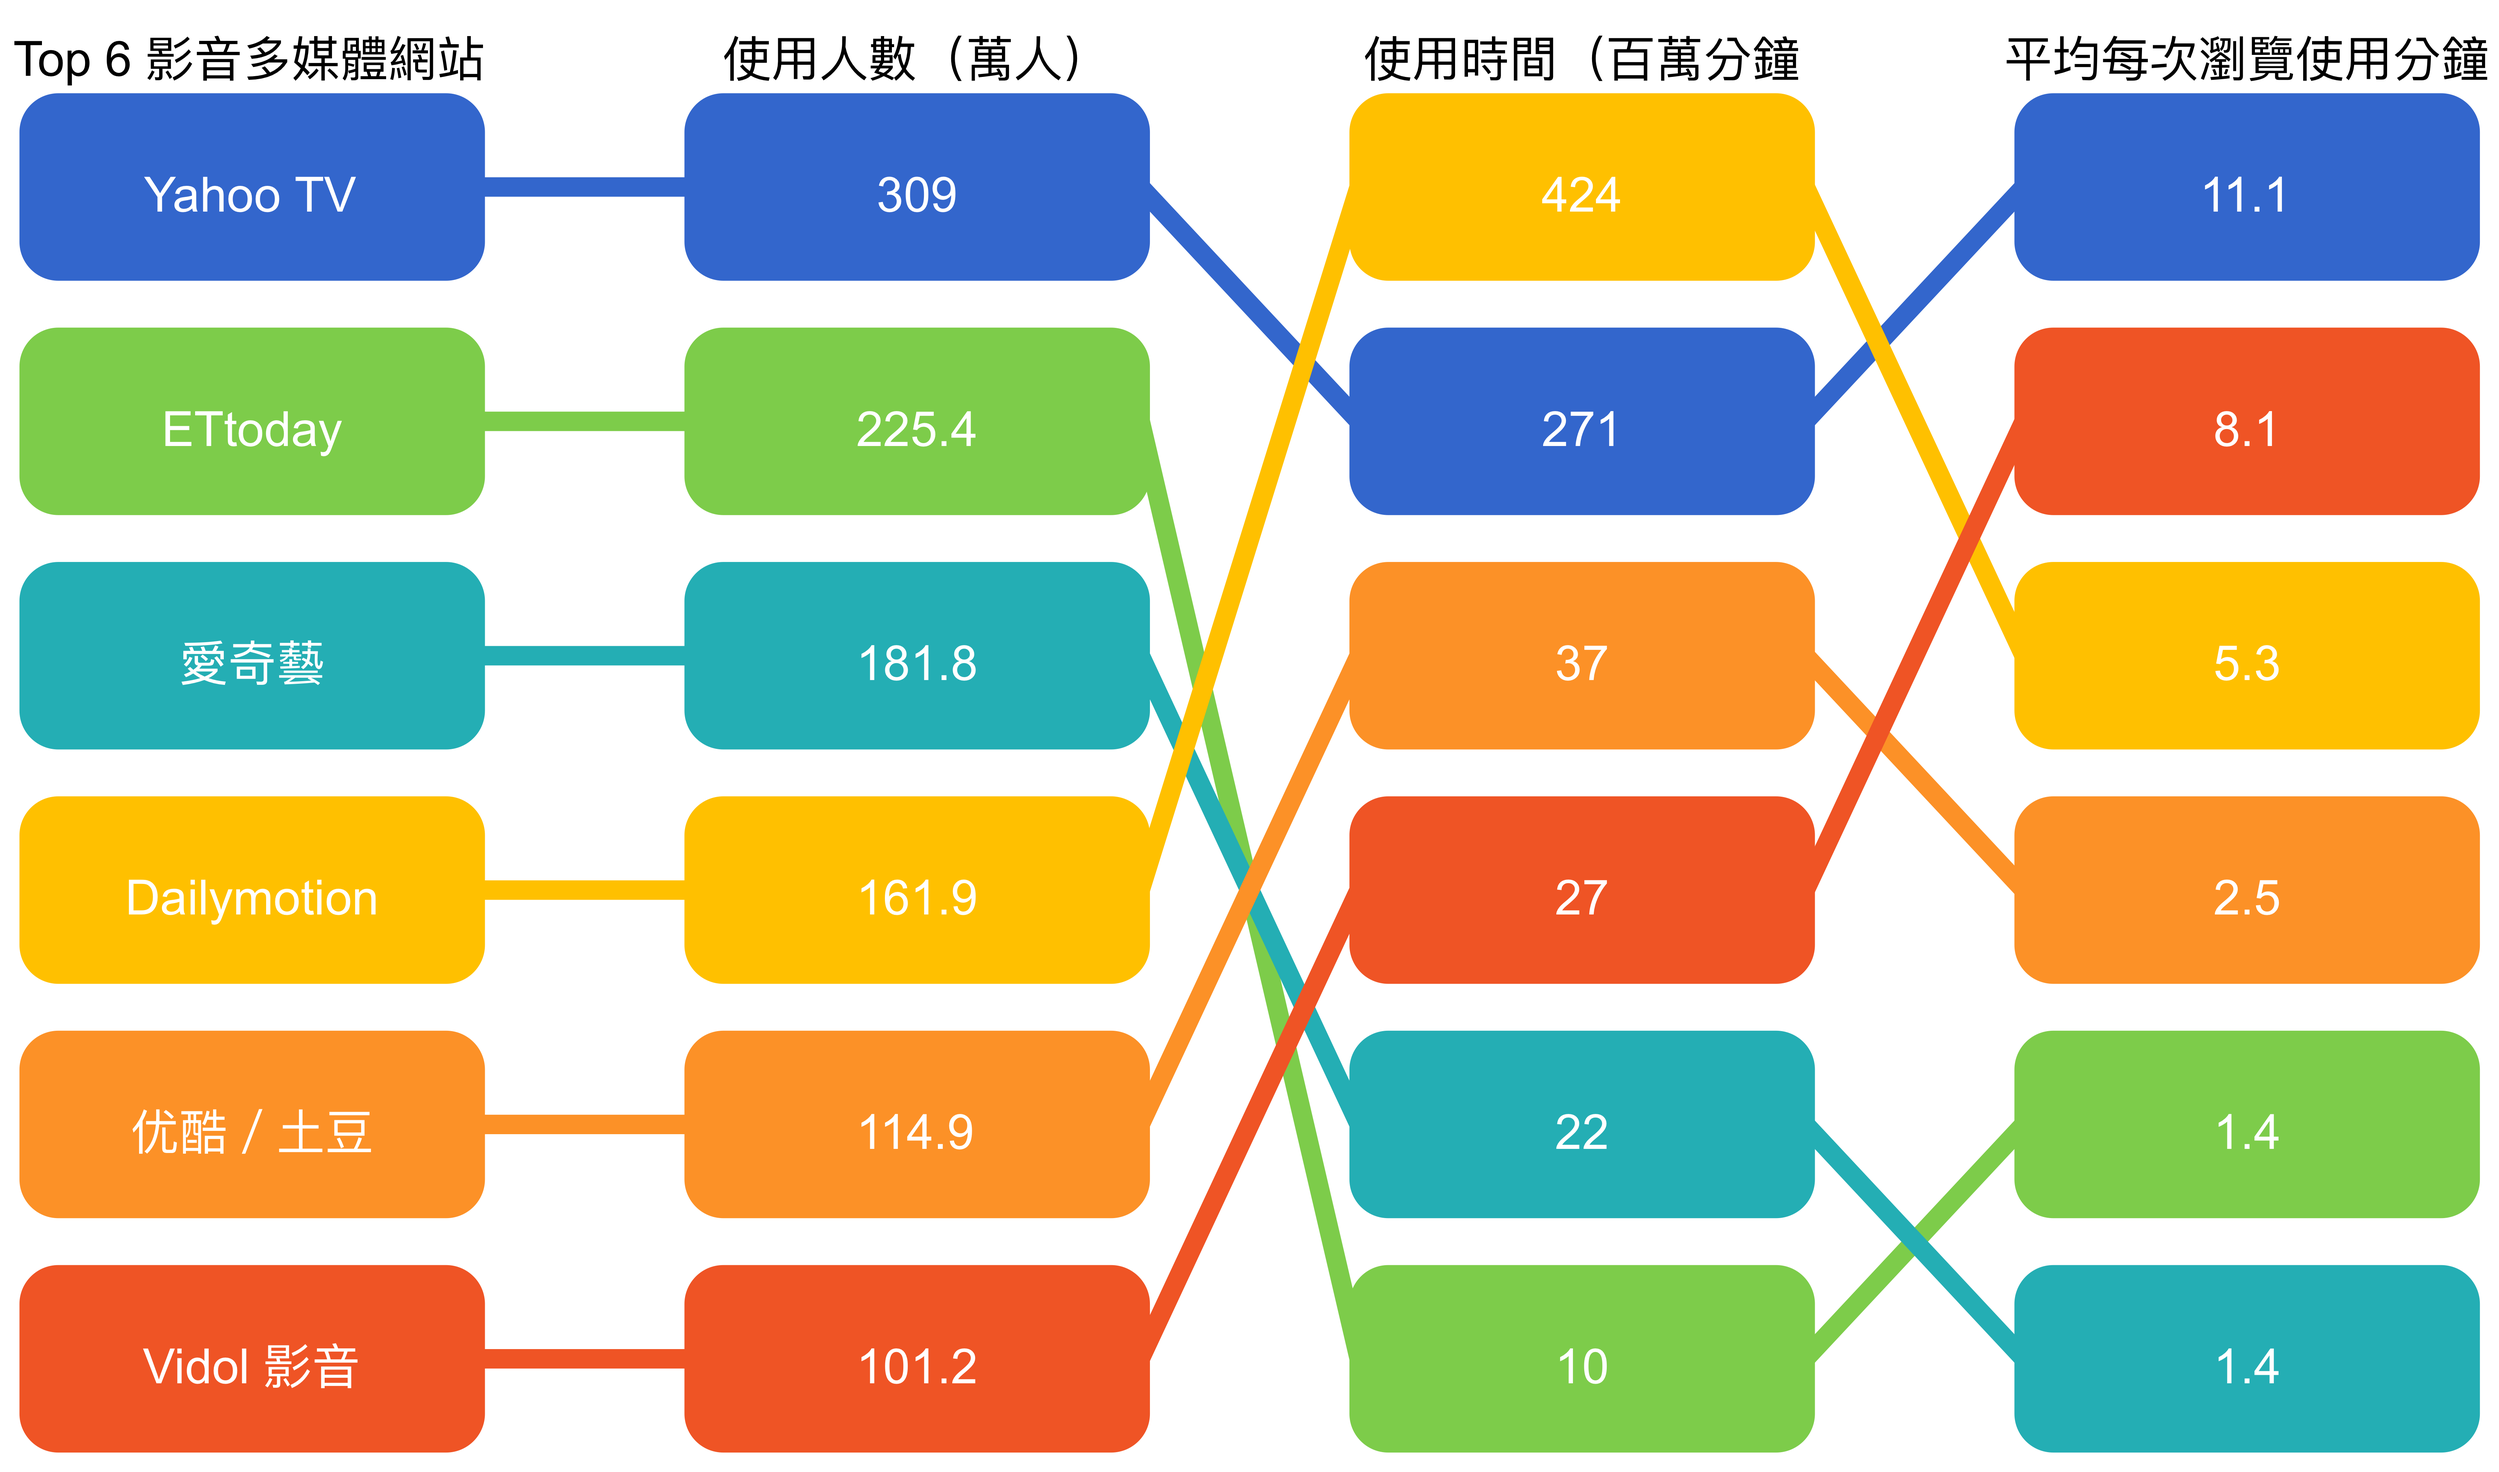
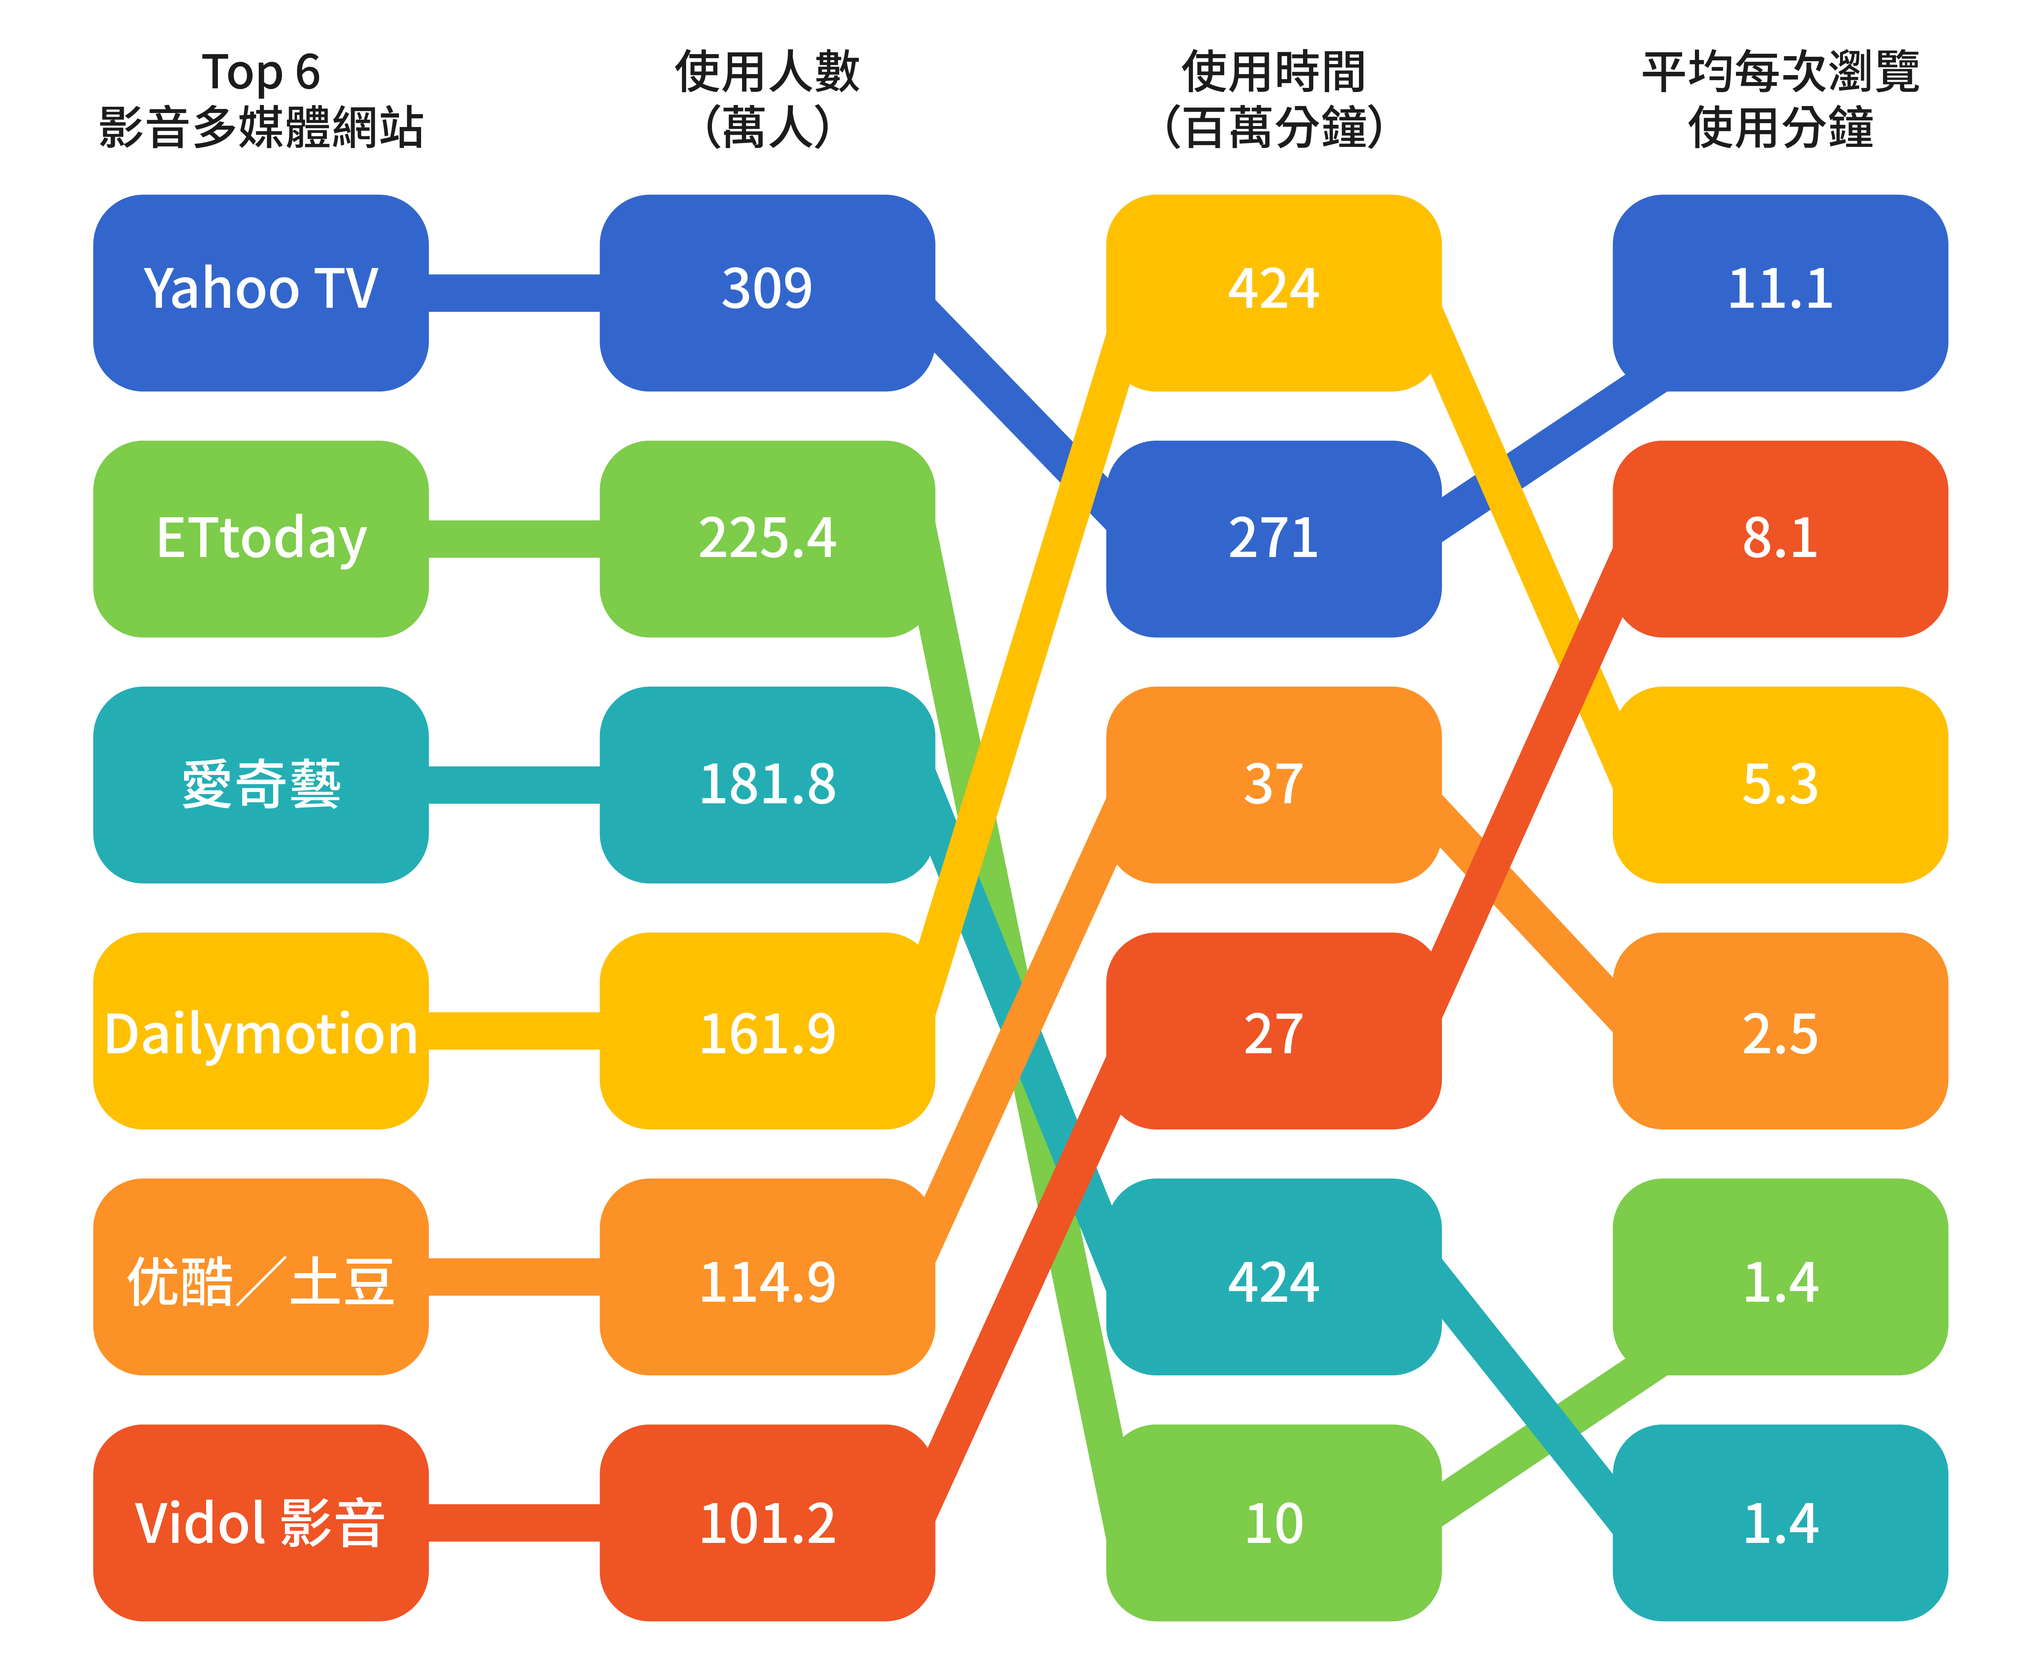
img update

diff --git a/2018/directionOne_en.html b/2018/directionOne_en.html
@@ -678,7 +678,7 @@
   </div>
   <div class="row justify-content-center wrapper">
     <div class="col-md-10">
-      <img class="img-fluid" src="img/chart_usageVideoPlatform.png" alt="">
+      <img class="img-fluid" src="img/chart_usageVideoPlatform_en.png" alt="">
       <!--iframe src="https://plotdb.io/v/chart/19717" width="100%" height="480px" frameborder="0"></iframe-->
       <div class="col-12 text-center wrapper">
         <ul class="list-unstyled extraInfo">
